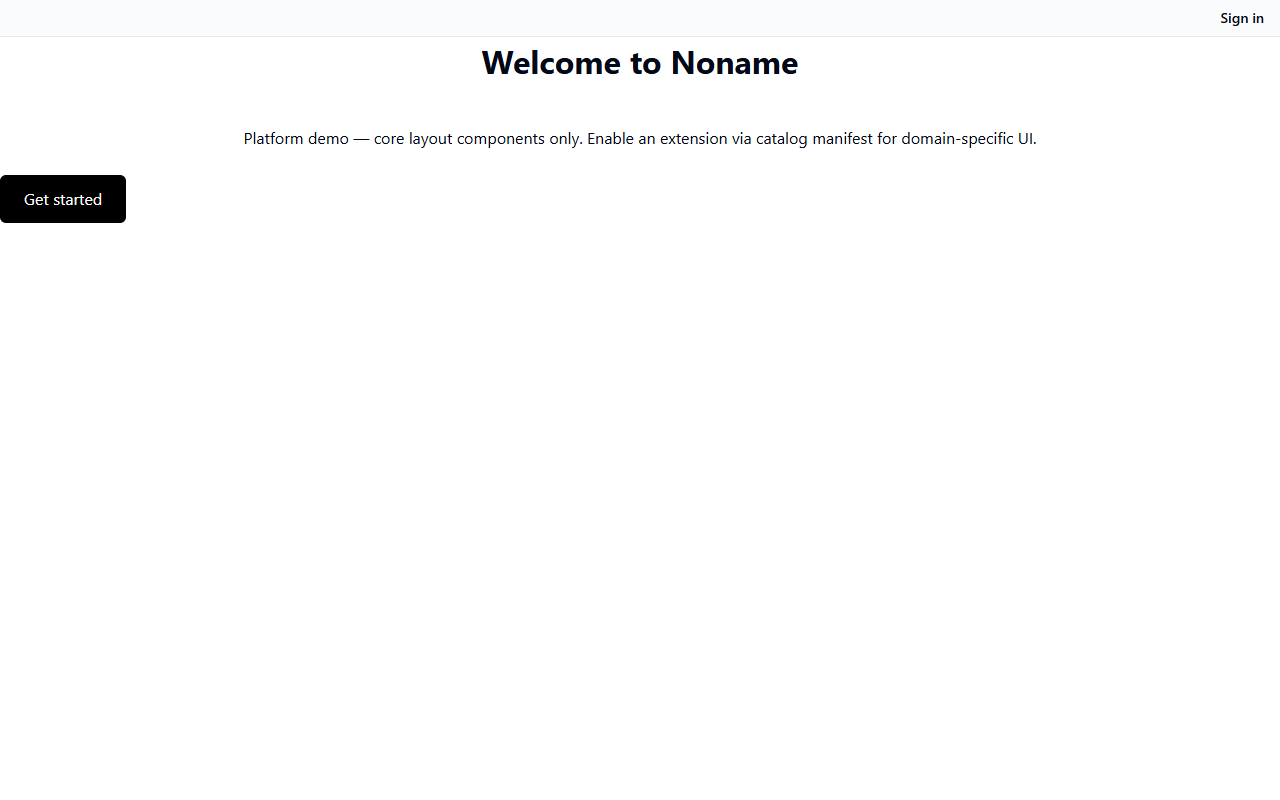
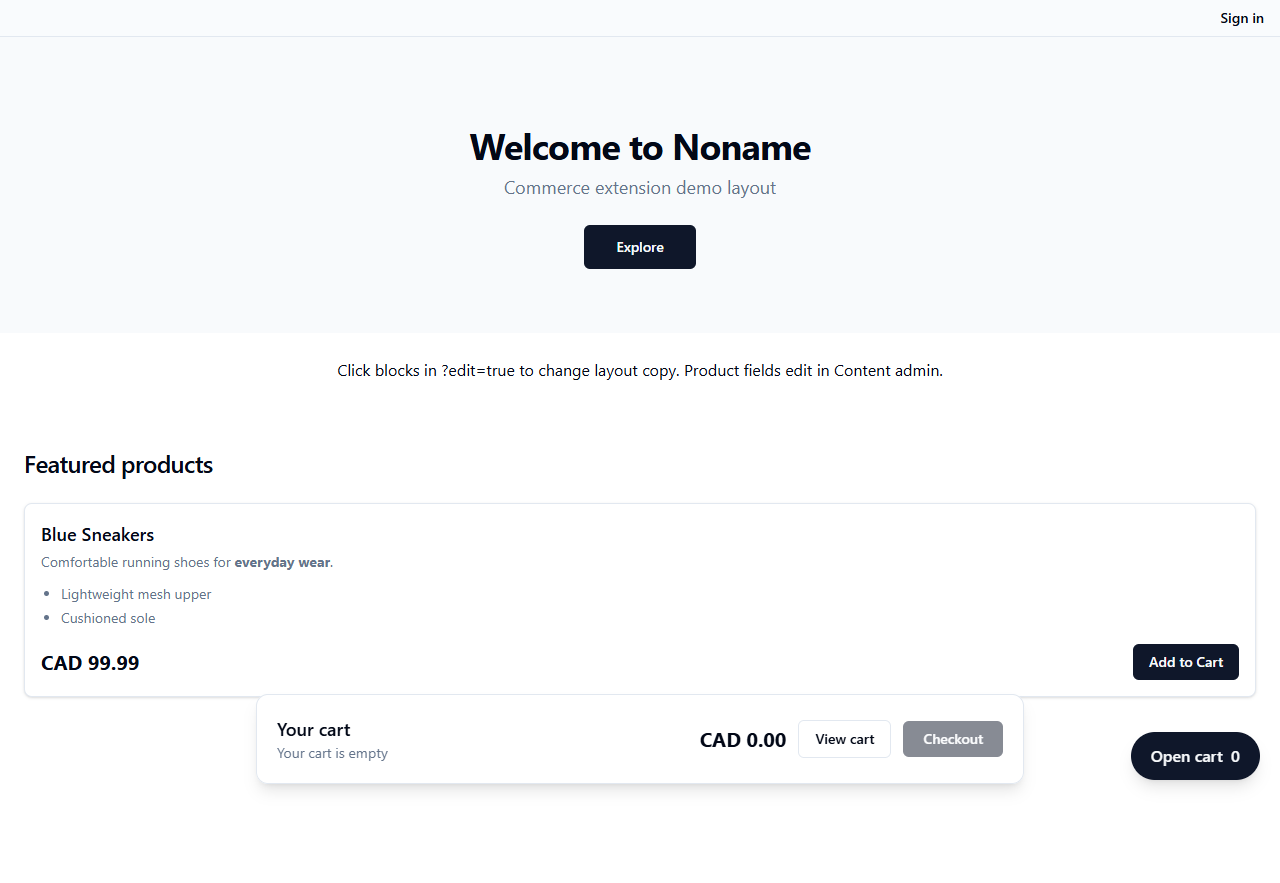
docs: record the verified M3 block

diff --git a/docs/2026-11-07/EVAL-SERVICE-IMPLEMENTATION-PLAN.md b/docs/2026-11-07/EVAL-SERVICE-IMPLEMENTATION-PLAN.md
@@ -6,9 +6,9 @@
 > **Method:** every claim below was checked against the current code, not against the RFC. Where the RFC and the code disagree, the disagreement is recorded as a gap and a decision, not silently resolved.
 > **Related:** [`RELEASE-VERIFICATION-GAPS.md`](./RELEASE-VERIFICATION-GAPS.md) · [`RFC-CRITICAL-REVIEW.md`](../2026-10-31/RFC-CRITICAL-REVIEW.md) · [`RFC-RELEASE-GATE.md`](./RFC-RELEASE-GATE.md)
 >
-> **Implementation status:** Blocks 1–3 and E7 are **done and verified** on 2026-11-07 (typed registry;
-> manifest observer; machine actor; `M1.references`). See [`VERIFICATION-LOG.md`](./VERIFICATION-LOG.md).
-> Next block: E9.
+> **Implementation status:** Blocks 1–3 and E7/E9 are **done and verified** on 2026-11-07 (typed registry;
+> manifest observer; machine actor; `M1.references`; `M3.reachability`). See
+> [`VERIFICATION-LOG.md`](./VERIFICATION-LOG.md). Next block: E13/E15.
 
 ---
 
@@ -214,7 +214,7 @@ Sizes: S < 1 day, M ≈ 2–5 days, L > 1 week. “Acceptance” = the observed 
 |---|---|---|---|---|---|
 | **E7** | `M1.references` missing | `reference` fields exist with `references?: string` ([`documents/schema.ts:11-23`](../../packages/documents/src/schema.ts#L11-L23)); no check | **DONE 2026-11-07.** Reads `/api/documents/content-types`; every reference field must name an existing type (or fail with the field path) | A dangling reference fails `M1` with the field path; restoring passes | S |
 | **E8** | `M2.permissions` missing — **and not implementable as written** | Actions are client handlers (`commerceActions.addToCart`), not capability names ([`extensions/commerce/actions.ts`](../../packages/extensions/src/commerce/actions.ts)); no action→permission metadata | Introduce an **action contract registry**: every action declares `requires: PermissionKey[]` and the capabilities it invokes. The server exposes a machine-only `GET /api/eval/context` returning the tenant’s effective permissions, capability descriptors and action contracts; a `TenantContextObserver` consumes it. M2 checks spec actions against that context | An action guarded by `commerce:orders_manage` fails for a tenant whose roles lack it; an unknown action fails vocabulary | L |
-| **E9** | `M3.reachability` missing | `pages.getMainTree` / `listRoutingPages` exist ([`pages.ts`](../../packages/server/src/domains/documents/routes/pages.ts)); no check | Spec observer reads `page_tree` + routing pages + published status; check verifies every entry → existing page and every published page → reachable entry | A dangling `page_tree` entry fails `M3` with both ids | S |
+| **E9** | `M3.reachability` missing | `pages.getMainTree` / `listRoutingPages` exist ([`pages.ts`](../../packages/server/src/domains/documents/routes/pages.ts)); no check | **DONE 2026-11-07.** Reads `page_tree/main` + `routing/pages`; every entry must exist and have a route; every published page must be in the tree | A dangling `page_tree` entry fails `M3` with both ids | S |
 | **E10** | `M5.vocabulary` is only “is it registered” | `vocabulary` checks API presence, not block/prop names ([`manifest.ts:35-86`](../../packages/eval/src/checks/manifest.ts#L35-L86)) | Validate spec element types and prop keys against the **catalog schema**; requires E11 | An unknown block type or prop fails `M5` with the element key | M |
 | **E11** | Catalog schema is duplicated and React-coupled | `client/src/component-schemas.ts`, `client/src/core/catalog-schemas.ts`, `extensions/src/commerce/catalog-schemas.ts` | Extract a node-safe `@noname/catalog` (zod only) consumed by client, bundler validation and eval; client re-exports for compatibility | Client build unchanged; eval imports the same schema; one definition per component | L |
 | **E12** | `M4` reads the filesystem inside the check | [`manifest.ts:26-32`](../../packages/eval/src/checks/manifest.ts#L26-L32) | **DONE 2026-11-07.** `ManifestObserver` produces `{ files, stored, canReadDefinitions }`; `M4` compares two values | Check unit test with two objects, no fs | S |
@@ -377,7 +377,7 @@ This table is the running record; the evidence for each row is in [`VERIFICATION
 | **B1** | E1 — typed `Check`, registry, derived verdict | **Done 2026-11-07** | typecheck clean, 6/6 tests, CLI run `passed: true`, browser smoke |
 | **B2** | E12/E2 — manifest/spec observer, pure `M4`/`M5` | **Done 2026-11-07** | typecheck, 9/9 tests (incl. exploding client), CLI run, browser smoke |
 | **B3** | E5 — machine actor, `MACHINES_READ`, service token | **Done 2026-11-07** | 8/8 token/guard tests, CLI `7 pass / 0 fail / 2 skip`, POST 403, browser smoke |
-| **B4** | E7–E11, E13–E15 — tier 0/1 catalogue | **In progress** — E7 done 2026-11-07 | 5/5 reference tests, live CLI `M1 pass` on 5 content types |
+| **B4** | E7–E11, E13–E15 — tier 0/1 catalogue | **In progress** — E7, E9 done 2026-11-07 | M1 5/5 tests; M3 6/6 tests + live fail→fix (3 pages unreachable → restored) |
 | **B5** | E16–E19, E21 — renderer markers + tier 2 | Not started | — |
 | **B6** | E20, E22 — behaviour + `S1` | Not started | — |
 | **B7** | E3, E4, E23–E26 — config, modes, sinks, queue | Not started | — |

diff --git a/docs/2026-11-07/VERIFICATION-LOG.md b/docs/2026-11-07/VERIFICATION-LOG.md
@@ -139,7 +139,34 @@ the API, so the dangling-target case was falsified at unit level rather than by 
 temporary content type and deleting it via SQL was rejected on purpose: verification must not write around the
 domain boundary it is checking.
 
+## 2026-11-07 — E9: `M3.reachability`
+
+**Scope.** A tier‑0 check over the routing graph: every `page_tree` entry must point at an existing page and
+have a route; every **published** page must be reachable from the tree. Draft pages are deliberately exempt.
+
+**Code.** `packages/eval/src/checks/reachability.ts` (new), `checks/reachability.test.ts` (new), `registry.ts`,
+`index.ts`, `registry.test.ts`.
+
+### Verification
+
+| Check | Command | Observed |
+|---|---|---|
+| Types | `pnpm --filter @noname/eval typecheck` | clean |
+| Unit tests | `pnpm vitest run packages/eval/src` | **20/20 passed** (6 new M3 tests) |
+| Live — first run | `noname eval --tenant yogastore --token <service-token>` | **M3 failed with 3 findings**: `collection-all`, `product-demo`, `product-search` published but absent from `page_tree`; overall `12 pass / 3 fail / 2 skip` |
+| Live — after restoring routing | `pnpm seed:demo:commerce` then the same eval | **M3 pass**: “4 page_tree entries, 4 pages — all reachable”; overall **19 pass / 0 fail / 2 skip** |
+| Browser smoke | `.tools/verify-storefront.mjs` | storefront 200 with the commerce layout (358 chars, 0 console errors), `/login` 200 |
+
+**Real finding, not a synthetic one.** Running the platform seed alone overwrites `page_tree/main` with the
+home entry; the commerce routes are then published pages that no route reaches. `M3` caught exactly that, and
+re-running the commerce seed restored the entries. The seed-ordering hazard is recorded here because it is a
+defect the check exposed on its first live run — the platform seed should preserve existing tree entries (or
+the two profiles should be ordered explicitly).
+
+`pnpm seed:demo:commerce` itself exited 1 **after** printing the restored routing, while inserting the demo
+order Evidence row; that failure is unrelated to M3 and is recorded so it is not mistaken for a check failure.
+
 ## Next block (planned)
 
-`E9` — `M3.reachability`: every `page_tree` entry points at an existing page, and every published page is
-reachable from the tree. Verification: a dangling entry fails `M3` with both ids.
+`E13`/`E15` — split `R1.resolve` from `R2.blocks` and compare block **types**, not just “count > 0”.
+Verification: a route rendering the wrong template passes R1 but fails R2.
